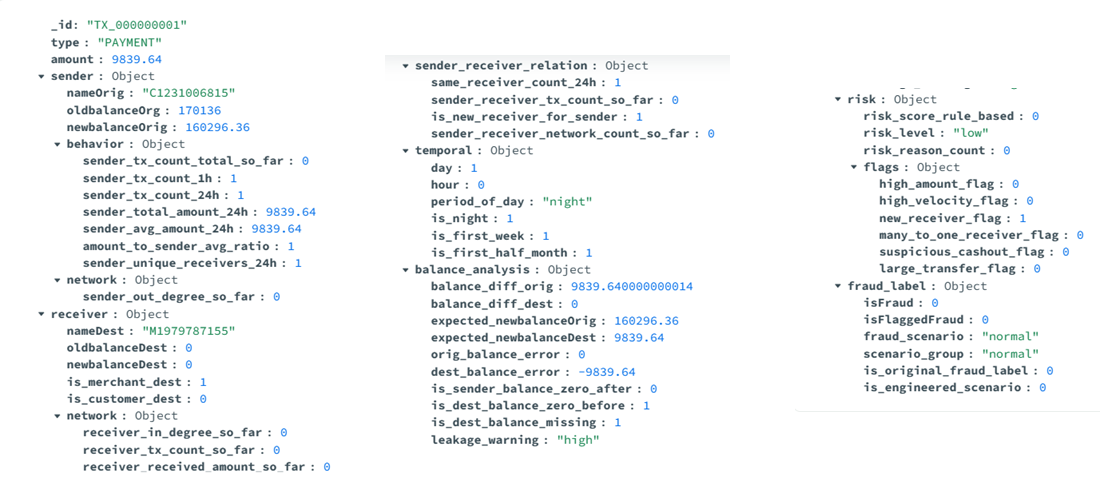
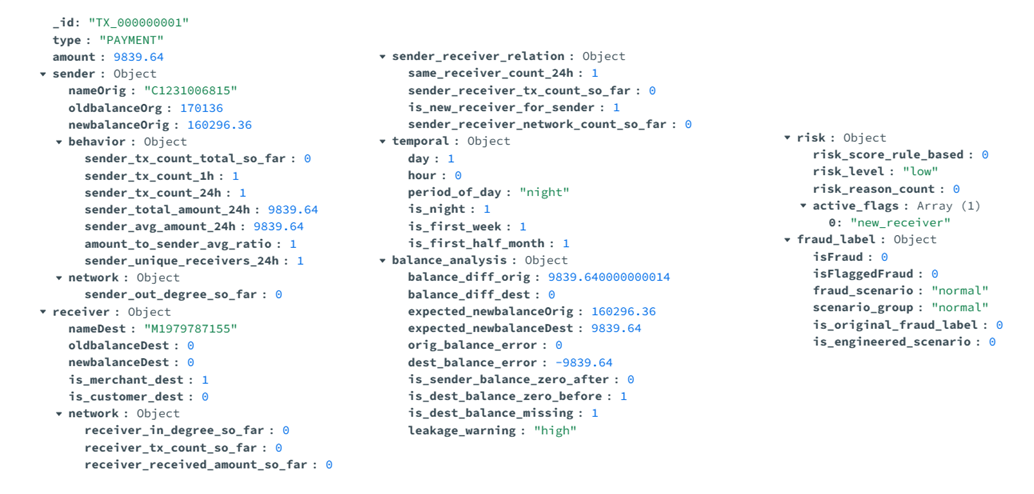
Drugi upit

Changed region(s): [[0.3714, 0.0938, 0.6499, 0.9375], [0.0309, 0.0312, 0.3095, 1.0], [0.7737, 0.1875, 0.9903, 0.8438]]

diff --git a/optimized-schema/scripts/import_v2.py b/optimized-schema/scripts/import_v2.py
@@ -4,7 +4,6 @@ from pymongo import MongoClient, InsertOne
 from pymongo.errors import BulkWriteError
 from tqdm import tqdm
 
-
 CONNECTION_STRING = "mongodb://localhost:27017/"
 DATABASE_NAME = "fraud_detection"
 CSV_DIR = Path("./csv_files")
@@ -33,6 +32,23 @@ def cast(value):
 
 def build_doc(tx, temp, sr, behav, net, bal, risk, fraud):
     tid = tx["transaction_id"]
+
+    # --- ŠABLON ATRIBUTA (Attribute Pattern) ---
+    # Mapiramo nazive flegova iz CSV-a i proveravamo koji su aktivni (imaju vrednost 1)
+    flag_mappings = {
+        "high_amount_flag": "high_amount",
+        "high_velocity_flag": "high_velocity",
+        "new_receiver_flag": "new_receiver",
+        "many_to_one_receiver_flag": "many_to_one",
+        "suspicious_cashout_flag": "suspicious_cashout",
+        "large_transfer_flag": "large_transfer"
+    }
+    
+    active_flags = []
+    for csv_key, clean_name in flag_mappings.items():
+        if cast(risk.get(csv_key)) == 1:
+            active_flags.append(clean_name)
+    # -------------------------------------------
 
     doc = {
         "_id": tid,
@@ -97,14 +113,7 @@ def build_doc(tx, temp, sr, behav, net, bal, risk, fraud):
             "risk_score_rule_based": cast(risk["risk_score_rule_based"]),
             "risk_level": risk["risk_level"],
             "risk_reason_count": cast(risk["risk_reason_count"]),
-            "flags": {
-                "high_amount_flag": cast(risk["high_amount_flag"]),
-                "high_velocity_flag": cast(risk["high_velocity_flag"]),
-                "new_receiver_flag": cast(risk["new_receiver_flag"]),
-                "many_to_one_receiver_flag": cast(risk["many_to_one_receiver_flag"]),
-                "suspicious_cashout_flag": cast(risk["suspicious_cashout_flag"]),
-                "large_transfer_flag": cast(risk["large_transfer_flag"]),
-            }
+            "active_flags": active_flags  # <-- Novi niz koji menja stari objekat sa 6 flegova
         },
         "fraud_label": {
             "isFraud": cast(tx["isFraud"]),

diff --git a/optimized-schema/queries/README.md b/optimized-schema/queries/README.md
@@ -1,0 +1,107 @@
+# Upiti
+
+## Prvi upit
+
+Koji tipovi transakcija ka novim primaocima (is_new_receiver_for_sender = 1) najčešće rezultuju prevarama i kako se prosečan risk_score razlikuje u zavisnosti od toga da li je primalac merchant ili customer?
+
+
+```javascript
+
+db.getCollection('transactions_v2').aggregate([
+  { $match: { "sender_receiver_relation.is_new_receiver_for_sender": 1 } },
+  {
+    $group: {
+      _id: { type: "$type", is_merchant: "$receiver.is_merchant_dest" },
+      total_transactions: { $sum: 1 },
+      fraud_count: { $sum: "$fraud_label.isFraud" },
+      avg_risk_score: { $avg: "$risk.risk_score_rule_based" }
+    }
+  },
+  {
+    $addFields: {
+      fraud_rate_pct: { $round: [{ $multiply: [{ $divide: ["$fraud_count", "$total_transactions"] }, 100] }, 2] },
+      avg_risk_score: { $round: ["$avg_risk_score", 2] },
+      receiver_type: { $cond: { if: { $eq: ["$_id.is_merchant", 1] }, then: "merchant", else: "customer" } }
+    }
+  },
+  { $sort: { fraud_count: -1 } },
+  {
+    $project: {
+      _id: 0,
+      transaction_type: "$_id.type",
+      receiver_type: 1,
+      total_transactions: 1,
+      fraud_count: 1,
+      fraud_rate_pct: 1,
+      avg_risk_score: 1
+    }
+  }
+], { allowDiskUse: true })
+
+```
+
+### Rezultat upita:
+
+![](upit1.png)
+
+
+***Vreme izvrsavanja:*** 36 sek 
+
+## Drugi upit
+
+U kom periodu dana je suspicious_cashout_flag najčešći, koji fraud_scenario dominira u tom periodu i koliki je prosečan iznos tih transakcija u odnosu na ostale?
+
+```javascript
+db.getCollection('transactions_v2').aggregate([
+  {
+    $match: {
+      "risk.active_flags": "suspicious_cashout"
+    }
+  },
+  
+
+  {
+    $group: {
+      _id: {
+        period_of_day: "$temporal.period_of_day",
+        fraud_scenario: "$fraud_label.fraud_scenario"
+      },
+      scenario_count: { $sum: 1 },
+      avg_amount: { $avg: "$amount" }
+    }
+  },
+  
+  { $sort: { "_id.period_of_day": 1, scenario_count: -1 } },
+  
+  {
+    $group: {
+      _id: "$_id.period_of_day",
+      dominant_scenario: { $first: "$_id.fraud_scenario" },
+      scenario_count: { $first: "$scenario_count" },
+      total_suspicious_flags: { $sum: "$scenario_count" },
+      avg_amount_of_dominant: { $first: "$avg_amount" }
+    }
+  },
+  
+  { $sort: { total_suspicious_flags: -1 } },
+  
+  {
+    $project: {
+      _id: 0,
+      period_of_day: "$_id",
+      total_suspicious_flags: 1,
+      dominant_scenario: 1,
+      scenario_count: 1,
+      avg_amount_of_dominant: { $round: ["$avg_amount_of_dominant", 2] },
+      global_suspicious_avg: { $literal: 465824.20 }
+    }
+  }
+], { allowDiskUse: true })
+
+
+```
+### Rezultat upita:
+
+![](upit2.png)
+
+***Vreme izvrsavanja:*** 16 sek bez indeksa, 0.7 sek sa indeksom 

diff --git a/optimized-schema/scripts/README.md b/optimized-schema/scripts/README.md
@@ -16,6 +16,18 @@ pip install pandas
 pip install pymongo
 pip install tqdm
 ```
- Pokrenite skriptu `import_v2.py`. (podaci su vec ocisceni, samo ubacujemo u bazu)
- Sačekajte da se podaci učitaju u MongoDB bazu.
+1. Pokrenite skriptu `import_v2.py`. (podaci su vec ocisceni, samo ubacujemo u bazu)
+2. Sačekajte da se podaci učitaju u MongoDB bazu.
+3. Indeksi se dodaju nad novom kolekcijom 
 
+
+```javascript
+   
+db.getCollection('transactions_v2').createIndex({ "sender_receiver_relation.is_new_receiver_for_sender": 1 })
+
+
+db.getCollection('transactions_v2').createIndex({ "fraud_label.isFraud": 1, "risk.risk_level": 1 })
+
+
+db.getCollection('transactions_v2').createIndex({ "balance_analysis.is_sender_balance_zero_after": 1, "type": 1 })
+```

diff --git a/optimized-schema/schema/README.md b/optimized-schema/schema/README.md
@@ -8,3 +8,5 @@
 ![](collection1.png)
 
 Kolekcija sadrži podatke neophodne za izvršavanje osmišljenih upita bez lookupa i unwind funkcija. 
+
+U okviru poddokumenta risk, umesto inicijalnog čuvanja 6 pojedinačnih flagova (gde bi se za svaku transakciju čuvale vrednosti 0 ili 1), primenjen je šablon atributa. Svi aktivni indikatori prevare preformulisani su u dinamički niz stringova pod nazivom active_flags.
